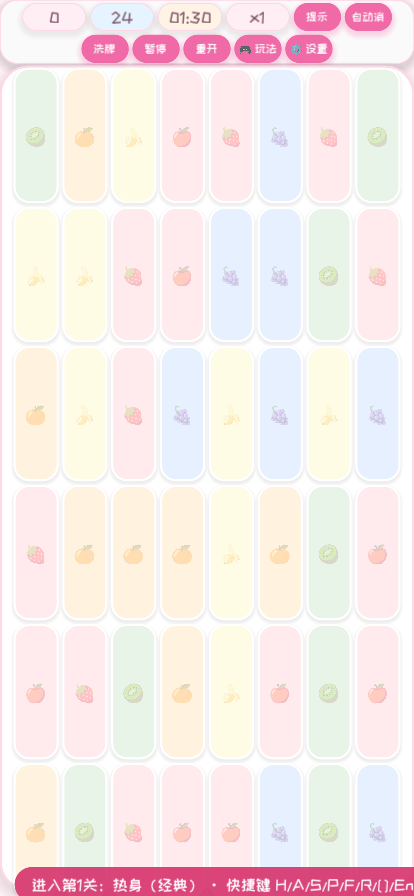
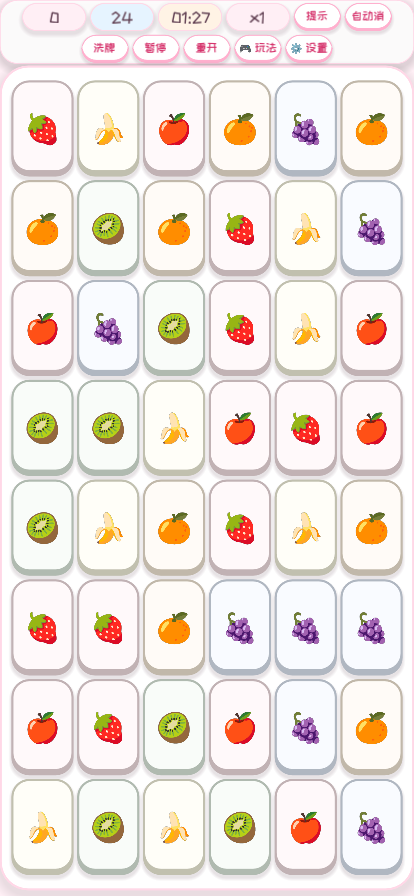
feat: 界面重设计「蜜糖瓷片」——设计令牌入 ui_style、瓷片近白牌面+糖边+厚度、HUD/导航/首页快捷卡白卡化；根修两个渲染 bug：活瓷片 disabled 半透明（整盘褪色+暂停滞留不可点）、关卡横幅自毁后 show_page 崩溃（横幅消失后开页白屏无导航）；截图工具出生动画时机+窗口竞态修复、新增页面样张

diff --git a/progress.md b/progress.md
@@ -1183,3 +1183,16 @@ Original prompt: 哎，继续完善我们的 GoDota 框架开发的 连连看游
 - **散点清偿 9 文件**：board_engine（sum10 牌面直测/rock_grid parity/contains_coord/edge_path/ensure_playable 双契约/format_time_seconds）、board_pathfinder（reconstruct_path 回放）、special_modes（10 个 builder 形状 + default_configs 深拷贝 + mode_categories 全划分 + mode_tier 回退）、tile_match/memory_flip（clear_view null 安全）、tree_buffs（is_score_prism）、economy（yesterday_dict 往返 86400s）、server_sync（boot_sync 三开口经 lane meta 断言）、stats_hud（is_time_danger 五态）、ui_style（次级按钮四态色 + 递归扫）。
 - **Godot 3 测试陷阱复犯两则（写进 quality-report）**：Parse Error 照样 exit 0（`int += bool` 踩中）；Dictionary `==` 引用比较、`hash()` 插入顺序敏感（逐键计数比较替代）。
 - Validation: 本地全量 56 项 CI 清单 + web_entry 实跑 rc 全 0、零 Parse Error；shell_audit 八项 clean；func_coverage_audit 纯逻辑域缺口归零（58 模块 995 函数）。推送后待 CI deploy 回填。
+
+## 2026-09-29 (Round 31：界面重设计「蜜糖瓷片」+ 两个真产品渲染 bug 根修)
+
+- Context: 用户定向"继续优化和完善界面效果，重新规划和设计界面"。入场先拍四视角基线截图，发现棋盘整盘"褪色"——逐层排查（隐藏覆盖层二分 / 属性级 diff 两颗按钮）定位到**真产品 bug ①**：活瓷片被置 `disabled`，Godot 3 把 disabled 按钮的文字按半透明渲染（~50% alpha），这就是整盘发灰的根源；且暂停窗口期最后一次刷新滞留 disabled 后，恢复播放也不再有刷新点，棋盘会整盘不可点（headless 探针直调 `_on_tile_pressed` 绕过 Button 所以从未暴露）。根修：活牌与石头一律 `disabled=false`（点击合法性由 `interactions.press_valid` 统一门控，顺带让石头牌"用 💣 炸开"提示重新可达——disabled 按钮收不到点击，该提示此前是死代码），仅空格保持 disabled。
+- **真产品 bug ②（截图工具全链路首次跑到才暴露）**：关卡横幅 1.8s 兜底自毁后 `stage_callout_label` 成员仍指向 freed instance，`page_router.show_page` 里裸真值判断再 set `visible` 直接 SCRIPT ERROR 中断——**横幅消失后打开任何页面只剩空白页、导航不出现**（每次开局 1.8s 后点任何入口即复现；探针恰好都在 1.8s 内开页所以从未抓到）。修复：`show_page` 对 callout 加 `is_instance_valid` 守卫；page_probe 新增三断言防回归（自毁后开页仍路由/内容非空/导航回归）。
+- **视觉重设计（信息架构零变动，product-map 头注已同步）**：
+  - 设计令牌入 `ui/ui_style.gd`：品牌玫瑰系/墨色文字系/软投影/糖果边轮换表（图标色过浅时按图案序号取，保证任何图集下糖边可读）+ `tile_face/tile_rim` 配方。
+  - 瓷片：粉彩底+白边 → 近白牌面（25% 图标色）+ 加深糖边 + 厚底边（bottom 6px 立体厚度）+ 梅调软投影；按下底边收平、高亮态边色光晕；emoji 全彩贴浅面不再被粉底泡淡；图标字号 0.52→0.60 短边；规则/知识模式的数字牌面白字→墨色字（白字泡浅面不可读）。
+  - HUD：控制按钮实心粉 → 白卡粉字次级品牌样式（厚底边+软投影，四态字色钉死）；统计药丸描边/投影/圆角精修，数值墨色加深。
+  - 导航条：一整条实心粉 → 白卡浮岛（白底玫瑰字，浮在页面粉面上）。
+  - 首页快捷卡：马卡龙底整卡填充 → 白瓷面+糖边描边，图标 24→27。
+- **截图工具（tools/screenshot.gd）两处修复**：①出生动画（错峰淡入 ≈0.6s）播完前就拍导致瓷片停在半透明 modulate——开局 settle 30→90 帧；②窗口尺寸竞态——board_fit 在关卡创建时读一次视口，换窗后不 settle 会把上一档窗口的棋盘形状带进新视口（竖屏拍到 8 列残留即此），窗口设定后先 settle 8 帧再 boot；新增玩法大厅页面样张（page-modes-portrait）。
+- Validation: 本地 Godot 3.6.2 全量 56 项 CI 清单 rc 全 0（board_view/page_router 改动后复跑 page_probe/panels_probe/page_router_test/start_screen_probe 及最终全量两轮全绿）；port_shell_audit 八项 clean；四视角截图目验收（棋盘水果全彩鲜亮、糖边瓷片成立、页面与导航正常）。零新增渲染文案（字体子集无需重切）；推送后待 CI deploy 回填。

diff --git a/docs/product-map.md b/docs/product-map.md
@@ -1,7 +1,16 @@
-# 产品交互地图（2026-09-18，与代码同步维护）
+# 产品交互地图（2026-09-29，与代码同步维护）
 
 > 本文档是界面信息架构的单一事实源：层级、页面清单、动线与闭环。任何页面/入口改动须先改这里再改代码；
 > 逐条闭环由探针锁定（page_probe / panels_probe / start_screen_probe）。
+>
+> 2026-09-29 视觉重设计（「蜜糖瓷片」）：信息架构不变，视觉层全量升级——
+> 设计令牌集中在 `ui/ui_style.gd`（品牌玫瑰/墨色文字/糖果边轮换 + tile_face/tile_rim 配方）；
+> 瓷片改近白牌面+加深糖边+厚底边立体感，emoji 全彩贴浅面（图标字号 0.52→0.60 短边）；
+> HUD 统计药丸与控制按钮白卡化；底部导航白卡浮岛化；首页快捷卡白瓷化。
+> 同时根修一个渲染 bug：活瓷片不再置 disabled（Godot 3 会把 disabled 按钮文字按
+> 半透明画——这是整盘「褪色」观感的根源，也造成暂停窗口期后棋盘滞留不可点）；
+> 点击合法性统一由 interactions.press_valid 门控（含石头牌的炸弹提示）。
+> 布局契约（棋盘 ≥90% 视口、竖屏单行 HUD、导航 page-only）与本文层级模型全部不变。
 
 ## 1. 层级模型（L0–L4，交互的骨架）
 
